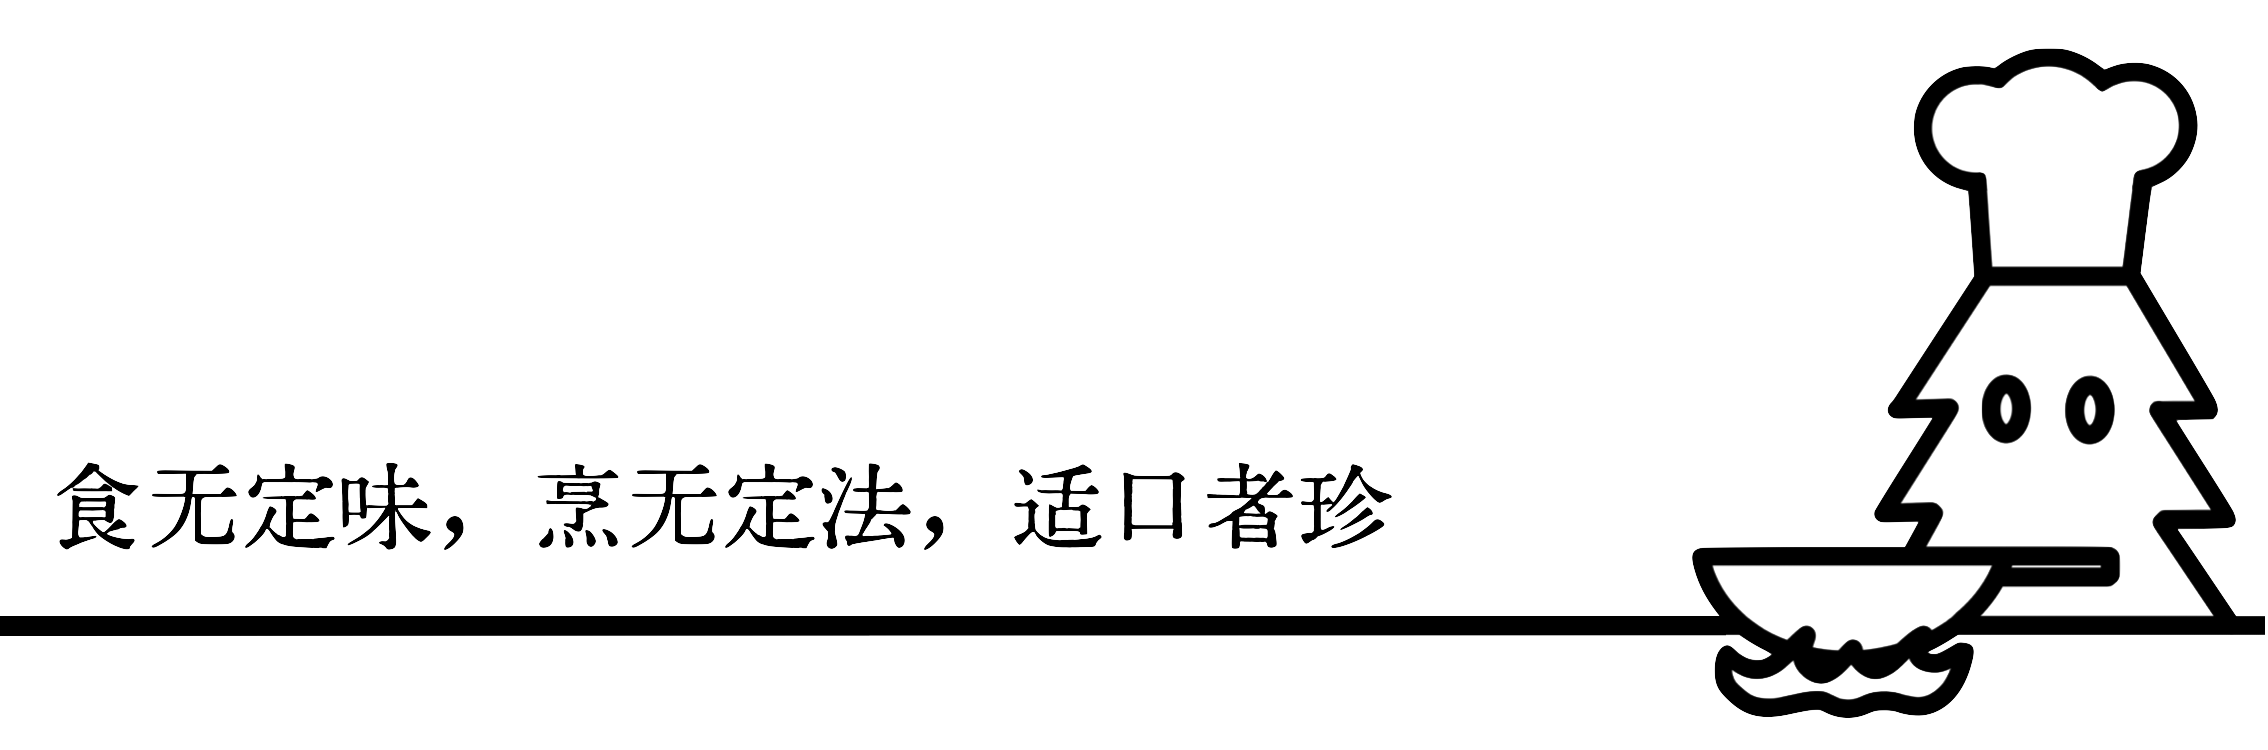
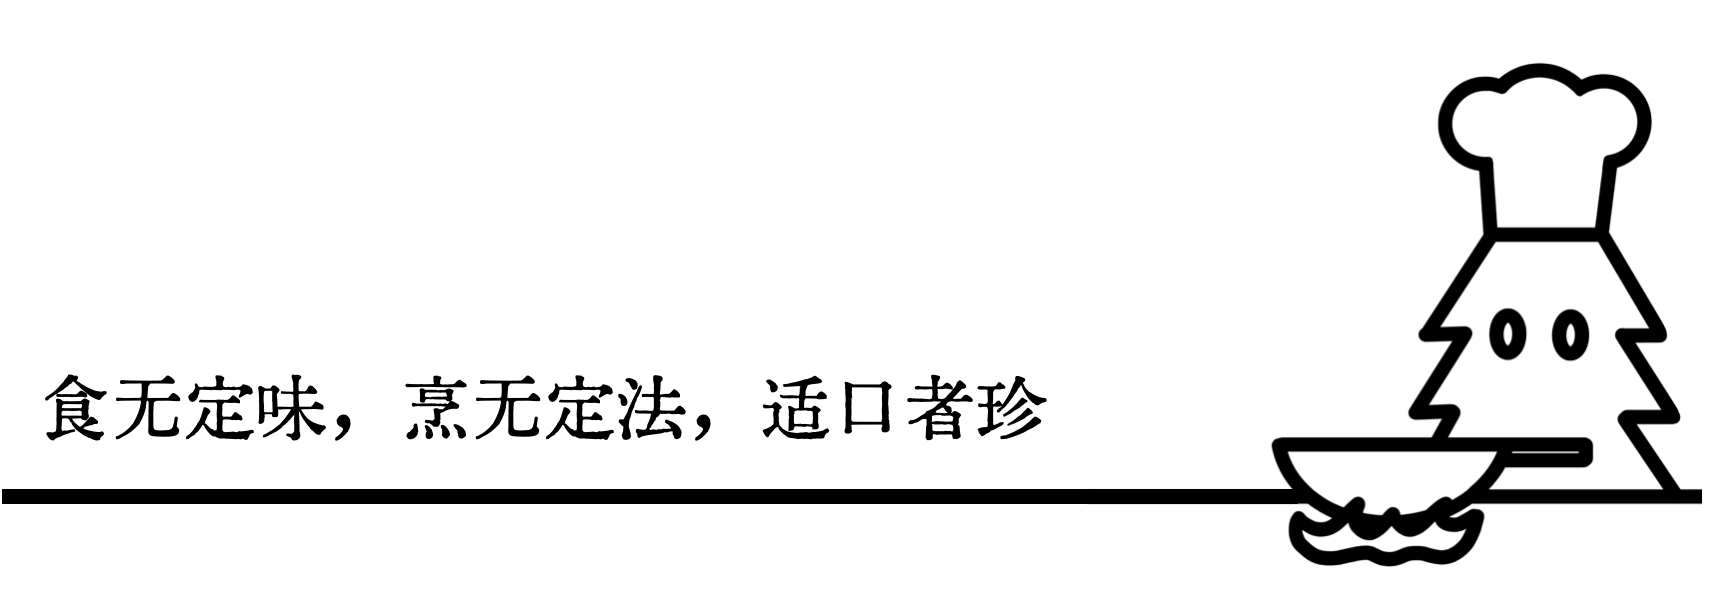
add epi note

Changed region(s): [[0.0, 0.0608, 1.0, 0.973], [0.2149, 0.6081, 0.6141, 0.7601], [0.0307, 0.6081, 0.2149, 0.7601]]

diff --git a/content/posts/e1.md b/content/posts/e1.md
@@ -1,0 +1,8 @@
++++
+title = '流行病学的数学原理 1：Survival, Incidence, and Prevalence'
+date = 2024-12-09T20:50:58-08:00
+draft = true
+categories = ['Epinotes']
++++
+
+This is the test of first epi notes

diff --git a/content/categories/Epinotes/_index.md b/content/categories/Epinotes/_index.md
@@ -1,0 +1,7 @@
++++
+title = 'Epidemiology Notes'
+date = 2024-12-09T20:49:28-08:00
+draft = false
++++
+
+{{< image src="/img/banner_epinotes.png" alt="epinotes" width="100%" linked=false >}}
